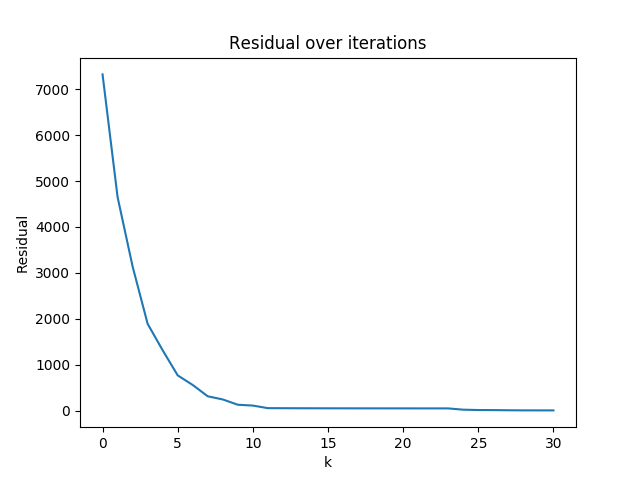
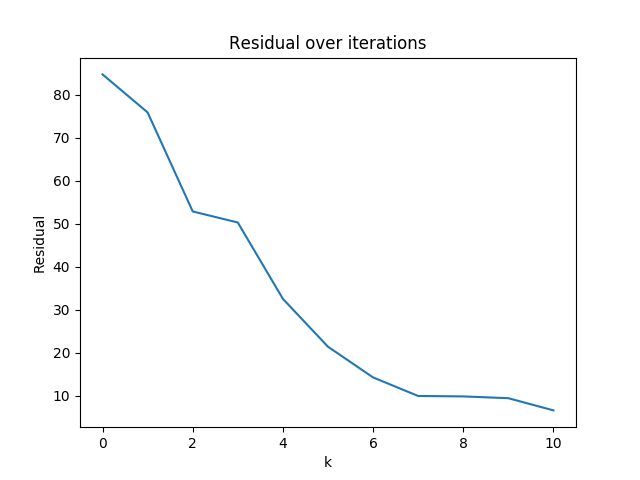
almost done hw5 left pb3

diff --git a/HW05/utility.py b/HW05/utility.py
@@ -104,10 +104,9 @@ def get_l(s, recalculate=False):
         l = []
         for x_s in x_step:
             for x_r in x_step:
-                if x_s != x_r:
-                    print(x_s, x_r)
-                    T = get_travel_time(s, x_s, 0.0)
-                    l.append(ray.curved_ray(x_s, 0.0, x_r, 0.0, T))
+                print(x_s, x_r)
+                T = get_travel_time(s, x_s, settings.FIX_S_Y)
+                l.append(ray.curved_ray(x_s, settings.FIX_S_Y, x_r, settings.FIX_R_Y, T))
         _L = np.array(l)
         print("Finished ray tracing")
         np.savez('cache.npz', L=_L)
@@ -121,10 +120,10 @@ def get_l(s, recalculate=False):
 Optimization
 '''
 def get_r(t_obs, s_model, L):
-    return np.square(np.linalg.norm(np.subtract(
+    return np.linalg.norm(np.subtract(
         np.matmul(L, s_model),
         t_obs
-    )))
+    ))
 
 def grad(t_obs, s_model, L, norm=True):
     _grad = np.matmul(
@@ -137,11 +136,10 @@ def grad(t_obs, s_model, L, norm=True):
 line search
 '''
 def get_proper_alpha(t_obs, s0, L, pk, method='backtrack'):
+    ALPHA0 = 1.0
+    C = 0.1
     if method == 'backtrack':
-        ALPHA0 = 1.0
-        C = 0.1
         ALPHA_DECAYRATE = 0.8
-
         alphak = ALPHA0
         while True:
             s1 = s0 + np.multiply(alphak, pk)
@@ -149,56 +147,43 @@ def get_proper_alpha(t_obs, s0, L, pk, method='backtrack'):
             if get_r(t_obs, s1, L) <= get_r(t_obs, s0, L) + np.multiply(C * alphak, np.matmul(gradk.T, pk)):
                 break
             alphak *= ALPHA_DECAYRATE
-        # alphak = ALPHA0
-        # while True:
-        #     x1k1 = x1_0 + alphak * pk[0]
-        #     x2k1 = x2_0 + alphak * pk[1]
-        #     gradk = grad_func(x1_0, x2_0)
-        #     if func(x1k1, x2k1) <= func(x1_0, x2_0) + C * alphak * np.matmul(gradk.T, pk):
-        #         break
-        #     alphak *= ALPHA_DECAYRATE
-    # elif method == 'cube_quad':
-    #     alpha0 = ALPHA0
-    #     x1_alpha0 = x1_0 + alpha0 * pk[0]
-    #     x2_alpha0 = x2_0 + alpha0 * pk[1]
-    #     phi_0 = func(x1_0, x2_0)
-    #     grad_0 = grad_func(x1_0, x2_0)
-    #     phi_d0 = np.matmul(grad_0.T, pk)
-    #     phi_alpha0 = func(x1_alpha0, x2_alpha0)
-    #     # quad
-    #     alpha1_numerator = -np.multiply(phi_d0, alpha0**2)
-    #     alpha1_denominator = 2.0*(phi_alpha0 - phi_0 - alpha0*phi_d0)
-    #     alpha1 = alpha1_numerator/alpha1_denominator
-    #     x1_alpha1 = x1_0 + alpha1 * pk[0]
-    #     x2_alpha1 = x2_0 + alpha1 * pk[1]
-    #     phi_alpha1 = func(x1_alpha1, x2_alpha1)
-    #     if alpha1 > 1e-5 and phi_alpha1 <= phi_0 + C * alpha1 * phi_d0:
-    #         alphak = alpha1
-    #     else:
-    #         while True:
-    #             x1_alpha0 = x1_0 + alpha0 * pk[0]
-    #             x2_alpha0 = x2_0 + alpha0 * pk[1]
-    #             x1_alpha1 = x1_0 + alpha1 * pk[0]
-    #             x2_alpha1 = x2_0 + alpha1 * pk[1]
-    #             phi_alpha0 = func(x1_alpha0, x2_alpha0)
-    #             phi_alpha1 = func(x1_alpha1, x2_alpha1)
+    elif method == 'cube_quad':
+        alpha0 = ALPHA0
+        s_alpha0 = s0 + np.multiply(alpha0, pk)
+        phi_0 = get_r(t_obs, s0, L)
+        grad_0 = grad(t_obs, s0, L)
+        phi_d0 = np.matmul(grad_0.T, pk)
+        phi_alpha0 = get_r(t_obs, s_alpha0, L)
+        # quad
+        alpha1_numerator = -np.multiply(phi_d0, alpha0**2)
+        alpha1_denominator = 2.0*(phi_alpha0 - phi_0 - alpha0*phi_d0)
+        alpha1 = alpha1_numerator/alpha1_denominator
+        s_alpha1 = s0 + np.multiply(alpha1, pk)
+        phi_alpha1 = get_r(t_obs, s_alpha1, L)
+        if alpha1 > 1e-5 and phi_alpha1 <= phi_0 + C * alpha1 * phi_d0:
+            alphak = alpha1
+        else:
+            while True:
+                s_alpha0 = s0 + np.multiply(alpha0, pk)
+                s_alpha1 = s0 + np.multiply(alpha1, pk)
+                phi_alpha0 = get_r(t_obs, s_alpha0, L)
+                phi_alpha1 = get_r(t_obs, s_alpha1, L)
 
-    #             alpha_matrix = np.array([[alpha0**2, -alpha1**2], [-alpha0**3, alpha1**3]])
-    #             phi_matrix = np.array([phi_alpha1 - phi_0 - alpha1*phi_d0, phi_alpha0 - phi_0 - alpha0*phi_d0])
-    #             ab = (1.0/(alpha0**2*alpha1**2*(alpha1-alpha0)))*np.matmul(alpha_matrix, phi_matrix)
-    #             a, b = ab[0], ab[1]
+                alpha_matrix = np.array([[alpha0**2, -alpha1**2], [-alpha0**3, alpha1**3]])
+                phi_matrix = np.array([phi_alpha1 - phi_0 - alpha1*phi_d0, phi_alpha0 - phi_0 - alpha0*phi_d0])
+                ab = (1.0/(alpha0**2*alpha1**2*(alpha1-alpha0)))*np.matmul(alpha_matrix, phi_matrix)
+                a, b = ab[0], ab[1]
 
-    #             alpha2 = (-b + math.sqrt(b**2-3*a*phi_d0))/(3*a)
-    #             x1_alpha2 = x1_0 + alpha2 * pk[0]
-    #             x2_alpha2 = x2_0 + alpha2 * pk[1]
-    #             phi_alpha2 = func(x1_alpha2, x2_alpha2)
-    #             if phi_alpha2 <= phi_0 + C * alpha2 * phi_d0:
-    #                 alphak = alpha2
-    #                 break
-
-    #             alpha0 = alpha1
-    #             alpha1 = alpha2
+                alpha2 = (-b + math.sqrt(b**2-3*a*phi_d0))/(3*a)
+                s_alpha2 = s0 + np.multiply(alpha2, pk)
+                phi_alpha2 = get_r(t_obs, s_alpha2, L)
+                if phi_alpha2 <= phi_0 + C * alpha2 * phi_d0:
+                    alphak = alpha2
+                    break
+                alpha0 = alpha1
+                alpha1 = alpha2
+                print('alpha_0:{}, alpha_1:{}'.format(alpha0, alpha1))
     else:
-        print('Please select the satisfiable method to find the step length')
+        print('Method {} to find the step length does not support yet'.format(method))
         exit()
     return alphak

diff --git a/HW05/pb2/cg.py b/HW05/pb2/cg.py
@@ -8,7 +8,7 @@ from scipy.ndimage import gaussian_filter, uniform_filter
 
 import utility, settings
 
-K_STOP = 10
+K_STOP = 20
 LOG_RES = []
 
 def main():
@@ -16,11 +16,6 @@ def main():
     s_real = 1.0/v_real
     L = utility.get_l(s_real, recalculate=False)
     t_obs = np.matmul(L, s_real)
-
-    # s_model = np.multiply(1.0/3.5e3, np.ones(shape=s_real.shape))
-
-    # s_real_padded = np.pad(s_real.reshape(settings.NX, settings.NY).T, (50,50), 'maximum')
-    # s_model = gaussian_filter(s_real_padded, sigma=50)[50:-50, 50:-50].reshape(settings.NX*settings.NY)
 
     s_real_padded = np.pad(s_real.reshape(settings.NX, settings.NY).T, (100,100), 'edge')
     s_model = uniform_filter(s_real_padded, size=60)[100:-100, 100:-100].reshape(settings.NX*settings.NY)
@@ -37,28 +32,35 @@ def main():
     )
     a = plt.colorbar()
     a.set_label('$v$')
-    plt.title("Model Velocity (SD, k={})".format(k))
+    plt.title("Model Velocity (CG, k={})".format(k))
     plt.xlabel("$x$")
     plt.ylabel("$y$")
     plt.show()
     plt.clf()
     
     try:
+        pk = -1.0*utility.grad(t_obs, s_model, L)
         while k < K_STOP and res > 1e-2:
-            pk = -1.0*utility.grad(t_obs, s_model, L)
-            alphak = utility.get_proper_alpha(t_obs, s_model, L, pk, method='backtrack')
-            print(alphak, min(pk), max(pk))
-            s_model = np.add(
+            alphak = utility.get_proper_alpha(t_obs, s_model, L, pk, method='cube_quad')
+            s_model_new = np.add(
                 s_model,
                 np.multiply(alphak, pk)
             )
+            gradk = utility.grad(t_obs, s_model, L)
+            gradk1 = utility.grad(t_obs, s_model_new, L)
+            betak1 = np.matmul(gradk1.T, gradk1)/np.matmul(gradk.T, gradk)
+            pk = np.add(np.negative(gradk1), np.multiply(betak1, pk))
+
+            print('alphak:{}, min(pk):{}, max(pk):{}'.format(alphak, min(pk), max(pk)))
+            
             res = utility.get_r(t_obs, s_model, L)
             LOG_RES.append(res)
-            print(k, res, min(s_model), max(s_model))
+
+            print('k:{}, res:{}, min_s:{}, max_s:{}'.format(k, res, min(s_model), max(s_model)))
+            s_model = s_model_new
             k += 1
     except KeyboardInterrupt:
         pass
-
     
 
     plt.plot(LOG_RES)

diff --git a/HW05/pb3/regularization.py b/HW05/pb3/regularization.py
@@ -1,3 +1,4 @@
+import os
 import numpy as np
 import platform
 if platform.system() == "Darwin":
@@ -8,7 +9,7 @@ from scipy.ndimage import gaussian_filter, uniform_filter
 
 import utility, settings
 
-ALPHAS = np.logspace(-3, 3, num=50, base=10)
+ALPHAS = np.logspace(-3.0, 3.0, num=20, base=10)
 
 def main():
     v_real = utility.readraw(filename=settings.FILENAME)
@@ -33,20 +34,19 @@ def main():
     plt.show()
     plt.clf()
 
-    L = L.astype(np.float16)
-    t_obs = t_obs.astype(np.float16)
-
     for alpha in ALPHAS:
         print(alpha)
-        inn = np.linalg.inv(np.add(
-            np.matmul(L.T, L),
-            np.multiply(alpha, np.identity(s_model.shape, dtype=np.float16))
-        ))
         s_model = np.matmul(
-            inn,
+            np.linalg.inv(
+                np.add(
+                    np.matmul(L.T, L),
+                    np.multiply(alpha, np.identity(settings.NX*settings.NY, dtype=float))
+                )
+            ),
             np.matmul(L.T, t_obs)
         )
 
+        plt.clf()
         v_model = np.divide(1.0, s_model)
         plt.imshow(
             v_model.reshape(settings.NY, settings.NX), cmap='jet',
@@ -58,5 +58,4 @@ def main():
         plt.title("Model Velocity (REG, alpha={})".format(alpha))
         plt.xlabel("$x$")
         plt.ylabel("$y$")
-        plt.show()
-        plt.clf()
+        plt.savefig(os.path.join('pb3'), 'model_v_alpha{0:.03d}.png'.format(alpha))

diff --git a/HW05/unit_test/ray_path.py b/HW05/unit_test/ray_path.py
@@ -7,11 +7,11 @@ import matplotlib.pyplot as plt
 
 import utility, settings, ray
 
-SOURCE_X = 1800.0
-SOURCE_Y = 0.0
+SOURCE_X = 40.0
+SOURCE_Y = 2840.0
 
-RECEIVER_X = 8000.0
-RECEIVER_Y = 0.0
+RECEIVER_X = 40.0
+RECEIVER_Y = 60.0
 
 def main():
     v = utility.readraw(filename=settings.FILENAME)

diff --git a/HW05/main.py b/HW05/main.py
@@ -1,6 +1,10 @@
 from unit_test import eikonal, ray_path
 from pb1 import sd
+from pb2 import cg
 from pb3 import regularization
 
 if __name__ == "__main__":
+    # sd.main()
+    # cg.main()
     regularization.main()
+    # ray_path.main()

diff --git a/HW05/unit_test/eikonal.py b/HW05/unit_test/eikonal.py
@@ -7,8 +7,8 @@ import matplotlib.pyplot as plt
 
 import utility, settings
 
-SOURCE_X = 1800.0
-SOURCE_Y = 0.0
+SOURCE_X = 4840.0
+SOURCE_Y = 40.0
 
 def main():
     v = utility.readraw(filename=settings.FILENAME)

diff --git a/HW05/settings.py b/HW05/settings.py
@@ -5,6 +5,8 @@ NX = 461
 NY = 151
 DX = 20
 STEP_SR = 200.0
+FIX_S_Y = 40
+FIX_R_Y = 60
 
 # COLORBAR
 COLOR_VMAX = 5800

diff --git a/Project/README.md b/Project/README.md
@@ -1,0 +1,3 @@
+# Finding hidden room in the pyramid by using ray path tomography
+
+## Motivation
